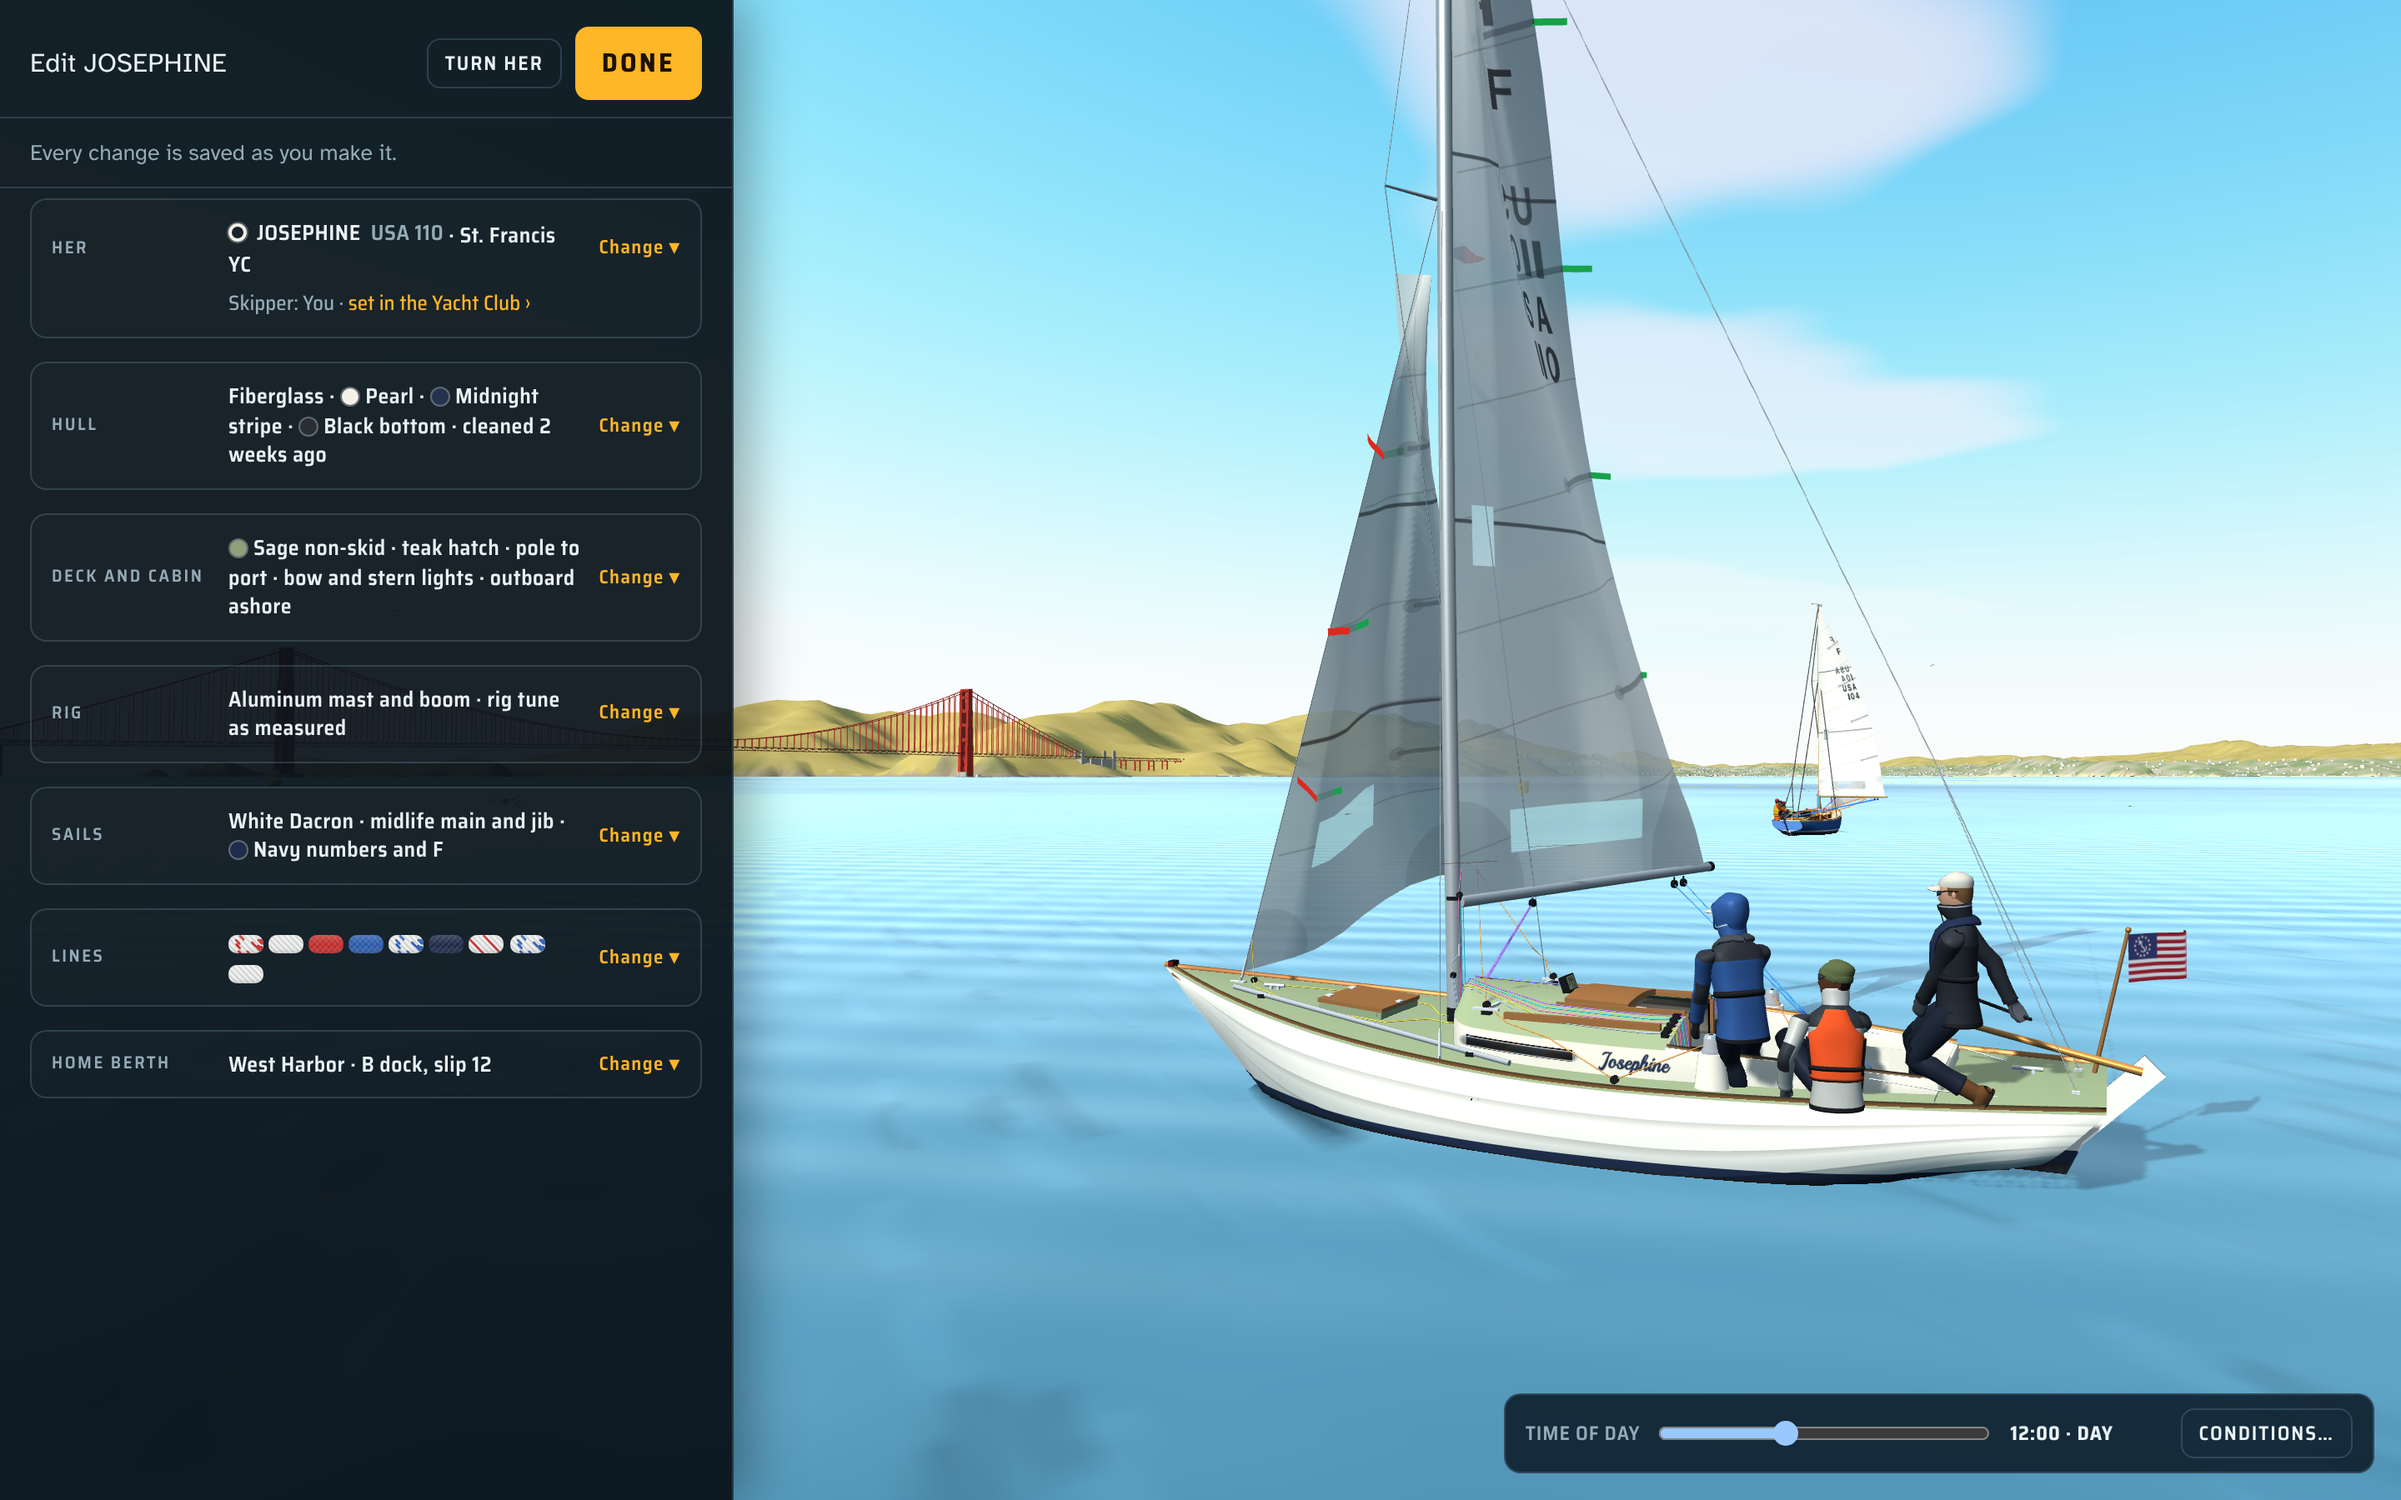
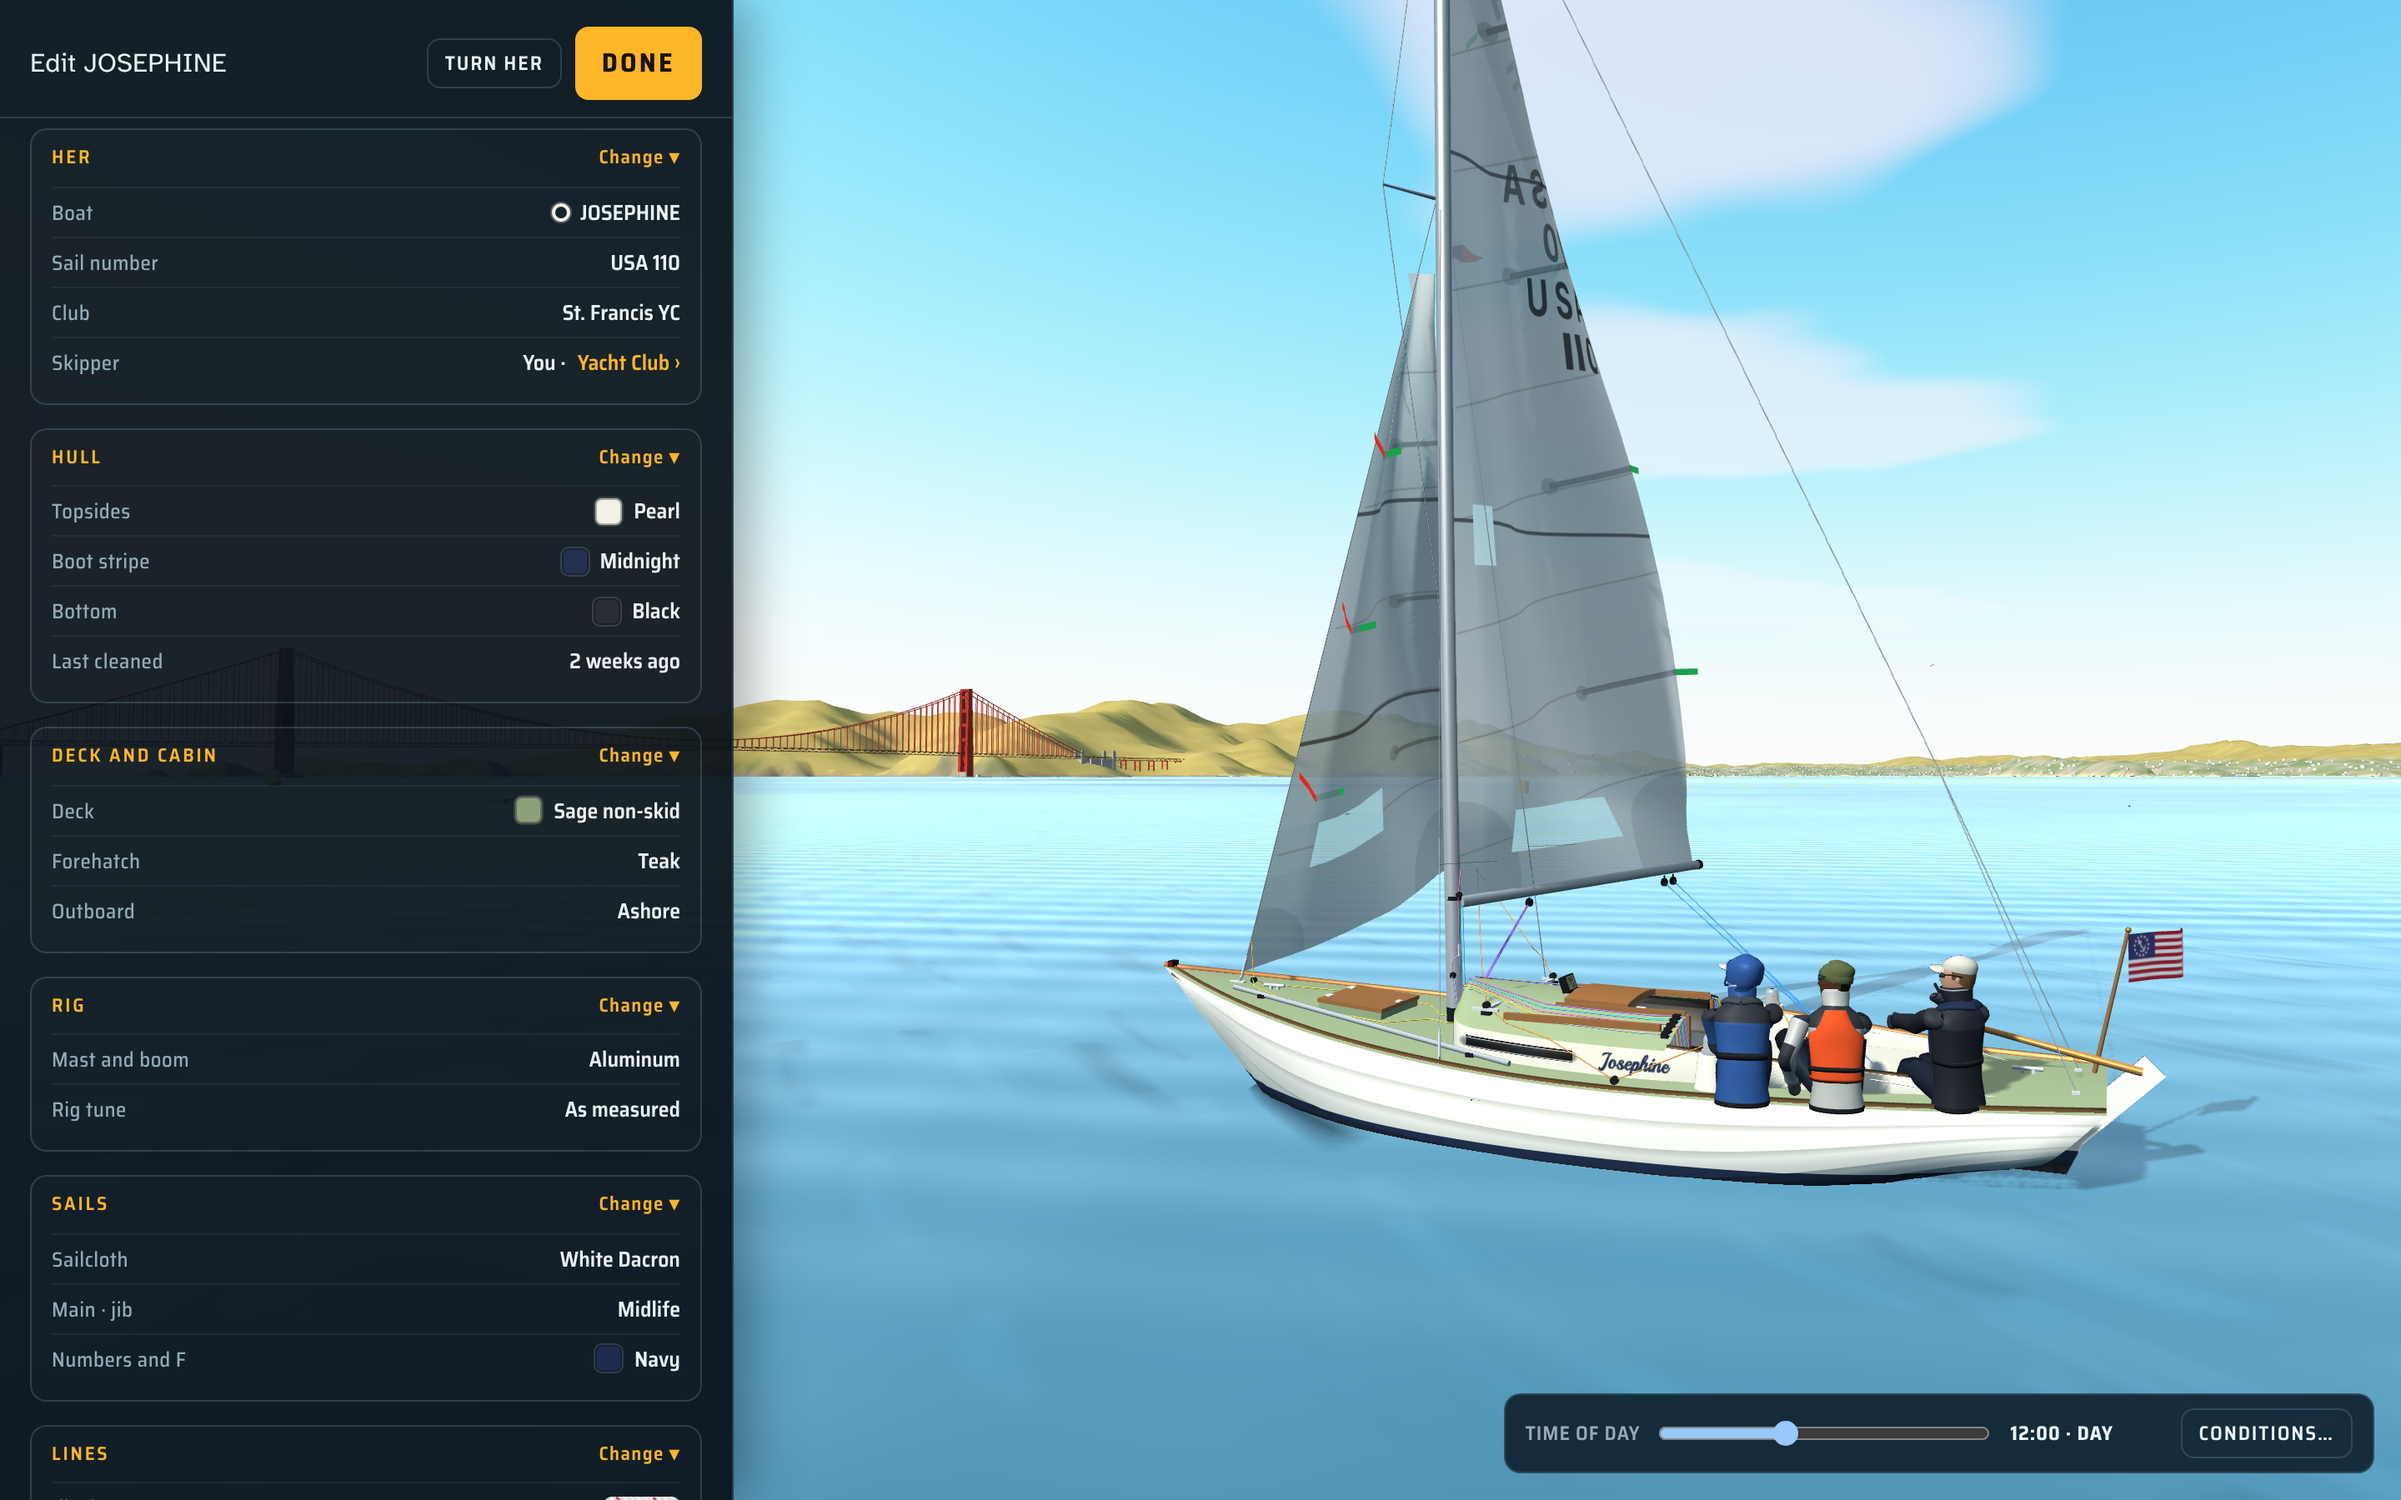
Boat editor mock-up: vertical lists (owner: tidy the cards), no saved-as-you-go line
Claude-Session: https://claude.ai/code/session_012Uu5QhY7i2pxWmAtAggWhz

diff --git a/design/boat-editor/mock.js b/design/boat-editor/mock.js
@@ -31,6 +31,19 @@ window.__mockEditor = (mode) => {
   .mk .ropes div{display:flex;align-items:center;gap:8px;font:500 12px var(--f-inst);color:var(--text)}.mk .ropes div.on{color:var(--accent)}.mk .ropes div.on .rope{outline:2px solid var(--accent);outline-offset:1px}
   .mk .src{font:500 11px/1.35 var(--f-inst);color:var(--muted)}
   .mk .seg button{font-size:12px}
+  .mk .fold>header{grid-template-columns:1fr auto !important}
+  .mk .fold>header b{font-size:11.5px !important;color:var(--accent) !important}
+  .mk .sum,.mk .in{padding:0 12px 10px;display:flex;flex-direction:column;gap:0}
+  .mk .kv{display:grid;grid-template-columns:132px 1fr;align-items:center;min-height:30px;border-top:1px solid rgba(150,196,218,.08)}
+  .mk .in .kv{min-height:40px}
+  .mk .kv>span:first-child{font:500 12.5px var(--f-inst);color:var(--muted);letter-spacing:.02em}
+  .mk .kv>*:last-child{justify-self:end}
+  .mk .v{display:inline-flex;align-items:center;gap:7px;font:600 13px var(--f-inst);color:var(--text)}.mk .v.mu{color:var(--muted);font-weight:500}.mk .v a{color:var(--accent);text-decoration:none}
+  .mk .sq{width:16px;height:16px;border-radius:4px;box-shadow:inset 0 0 0 1px rgba(0,0,0,.3),0 0 0 1px rgba(233,242,245,.15)}
+  .mk .kv .seg{width:210px}.mk .slide input{width:150px}.mk .slide em{font-style:normal;color:var(--muted);font-weight:500;width:34px}
+  .mk .num{width:56px}
+  .mk .cbtn{min-width:150px}
+  .mk .picker,.mk .ropes{margin:2px 0 8px}
   .mk .tile{display:inline-flex;align-items:center;gap:6px}.mk .tile i{width:11px;height:11px;border-radius:50%;border:2.5px solid;box-sizing:border-box;box-shadow:0 0 0 1px rgba(233,242,245,.28)}.mk .tile em{font-style:normal;color:var(--muted)}`;
   // a rope as drawn: its braid (the cover's crossing strands), and the colorway's fleck or tracer
   const rope = (base, kind, mark, w = 46, h = 14) => {
@@ -48,33 +61,32 @@ window.__mockEditor = (mode) => {
     ['Red fleck', '#eef0ee', 'fleck', '#c8312f'], ['Blue fleck', '#eef0ee', 'fleck', '#2f5fb3'], ['Green fleck', '#eef0ee', 'fleck', '#2f7a45'], ['Gold fleck', '#eef0ee', 'fleck', '#c99a2e'],
     ['White, red tracers', '#eef0ee', 'tracer', '#c8312f'], ['Navy, beige tracer', '#1f2a4a', 'tracer', '#cdb98f']];
   const R = n => { const r = ROPES.find(x => x[0] === n); return rope(r[1], r[2], r[3]); };
-  const fold = (label, summary, open = false, inner = '', ro = '') => `<div class="fold${open ? ' open' : ''}"><header><b>${label}</b><span>${summary}</span><i>${open ? 'Done ▴' : 'Change ▾'}</i></header>${ro}${open ? `<div class="in">${inner}</div>` : ''}</div>`;
-  const dot = c => `<i class="dot" style="background:${c}"></i>`;
-  const cbtn = (c, n, on = false) => `<button class="cbtn${on ? ' on' : ''}"><i style="background:${c}"></i>${n} <em>${c.toUpperCase()}</em></button>`;
-  const cf = (label, c, n, on) => `<div class="cfield"><span>${label}</span>${cbtn(c, n, on)}</div>`;
-  const CLASS = [['Pearl', '#f4f1e8'], ['Snow white', '#f7f7f4'], ['Cream', '#efe6cf'], ['Buff', '#d9c49a'], ['Navy', '#1f2c4f'], ['Flag blue', '#24407a'], ['Hunter green', '#2a4a33'], ['Racing green', '#1f5a3a'], ['Signal red', '#b3302a'], ['Black', '#1c1d20'], ['Light grey', '#c9ccd0']];
+  // one property per row: label left (muted), value or control right, on one grid
+  const sw = (c, n) => `<span class="v"><i class="sq" style="background:${c}"></i>${n}</span>`;
+  const row = (label, value) => `<div class="kv"><span>${label}</span>${value}</div>`;
+  const fold = (label, rows, open = false, inner = '') => `<div class="fold${open ? ' open' : ''}"><header><b>${label}</b><i>${open ? 'Done ▴' : 'Change ▾'}</i></header>${open ? `<div class="in">${inner}</div>` : `<div class="sum">${rows.join('')}</div>`}</div>`;
+  const cbtn = (c, n, on = false) => `<button class="cbtn${on ? ' on' : ''}"><i style="background:${c}"></i>${n}</button>`;
+  const CLASS = [['Pearl', '#f4f1e8'], ['Snow white', '#f7f7f4'], ['Cream', '#efe6cf'], ['Buff', '#d9c49a'], ['Navy', '#1f2c4f'], ['Flag blue', '#24407a'], ['Hunter green', '#2a4a33'], ['Racing green', '#1f5a3a'], ['Signal red', '#b3302a'], ['Black', '#1c1d20']];
   const picker = `<div class="picker"><div class="sv"></div><div class="hue"></div>
-    <div class="hexrow"><input class="pick" value="#F4F1E8" aria-label="Hex"><small>Pearl</small></div>
+    <div class="hexrow"><input class="pick" value="#F4F1E8" aria-label="Hex"></div>
     <div class="prow"><b>Folkboat colors</b>${CLASS.map(([n, c], i) => `<i class="ps${i === 0 ? ' on' : ''}" style="background:${c}" title="${n}"></i>`).join('')}</div>
-    <div class="prow"><b>Your colors · on every picker, saved with your account</b>${['#8e9f7c', '#24324f', '#a8802f'].map(c => `<i class="ps" style="background:${c}"></i>`).join('')}<i class="ps add" title="Save this color">+</i></div></div>`;
+    <div class="prow"><b>Your colors</b>${['#8e9f7c', '#24324f', '#a8802f'].map(c => `<i class="ps" style="background:${c}"></i>`).join('')}<i class="ps add" title="Save this color">+</i></div></div>`;
   const seg = (opts, cur) => `<div class="seg">${opts.map(o => `<button type="button" aria-pressed="${o === cur}">${o}</button>`).join('')}</div>`;
-  const field = (label, inner) => `<div class="field"><span>${label}</span>${inner}</div>`;
-  const hullIn = field('Hull', seg(['Fiberglass', 'Wood'], 'Fiberglass')) + cf('Topsides', '#f4f1e8', 'Pearl', true) + picker
-    + cf('Boot stripe', '#24324f', 'Midnight') + cf('Bottom paint', '#2a2d33', 'Black') + field('Bottom finish', seg(['As rolled on', 'Wet-sanded, burnished'], 'As rolled on'))
-    + field('Bottom last cleaned · <b>2 weeks ago</b>', '<input type="range" min="0" max="26" value="2">') + cf('Name lettering', '#1f2c4f', 'Navy')
-    + field('Weight over the class minimum', '<label class="inline"><input class="pick" value="0"> lb</label>');
+  const hullIn = row('Hull', seg(['Fiberglass', 'Wood'], 'Fiberglass')) + row('Topsides', cbtn('#f4f1e8', 'Pearl', true)) + picker
+    + row('Boot stripe', cbtn('#24324f', 'Midnight')) + row('Bottom paint', cbtn('#2a2d33', 'Black')) + row('Bottom finish', seg(['As rolled on', 'Burnished'], 'As rolled on'))
+    + row('Last cleaned', '<span class="v slide"><input type="range" min="0" max="26" value="2"><em>2 wk</em></span>') + row('Name lettering', cbtn('#1f2c4f', 'Navy'))
+    + row('Over the minimum', '<span class="v"><input class="pick num" value="0"> lb</span>');
   const LINES = [['Jib sheets', 'Red fleck'], ['Main halyard', 'White'], ['Jib Cunningham', 'Red'], ['Main Cunningham', 'Blue'], ['Outhaul', 'Blue fleck'], ['Vang', 'Navy'], ['Jib halyard', 'White, red tracers'], ['Mainsheet', 'Blue fleck'], ['Backstay', 'White']];
-  const linesIn = LINES.map(([n, r], i) => `<div class="lrow${i === 0 ? ' on' : ''}"><span>${n} <em>· ${r}</em></span>${R(r)}</div>${i === 0 ? `<div class="ropes">${ROPES.map(x => `<div class="${x[0] === r ? 'on' : ''}">${rope(x[1], x[2], x[3], 40, 13)}${x[0]}</div>`).join('')}</div>` : ''}`).join('')
-    + `<div class="src">Real rope colorways: New England Ropes (Sta-Set, Sta-Set X), Samson (XLS), Marlow (Doublebraid).</div>`;
-  const her = fold('Her', `<span class="tile"><i style="border-color:#f4f1e8"></i>JOSEPHINE <em>USA 110</em></span> · St. Francis YC`, false, '', `<div class="ro">Skipper: You · <a href="#">set in the Yacht Club ›</a></div>`);
-  const hull = fold('Hull', `Fiberglass · ${dot('#f4f1e8')}Pearl · ${dot('#24324f')}Midnight stripe · ${dot('#2a2d33')}Black bottom · cleaned 2 weeks ago`, mode === 'hull', hullIn);
-  const deck = fold('Deck and cabin', `${dot('#8e9f7c')}Sage non-skid · teak hatch · pole to port · bow and stern lights · outboard ashore`);
-  const rig = fold('Rig', 'Aluminum mast and boom · rig tune as measured');
-  const sails = fold('Sails', `White Dacron · midlife main and jib · ${dot('#1f2c4f')}Navy numbers and F`);
-  const lines = fold('Lines', LINES.map(([, r]) => R(r).replace('width="46" height="14"', 'width="21" height="11"').replace('viewBox="0 0 46 14"', 'viewBox="0 0 24 12"').replace('<svg','<svg preserveAspectRatio="none"')).join(' '), mode === 'lines', linesIn);
-  const berth = fold('Home berth', 'West Harbor · B dock, slip 12');
+  const ropeBtn = (r, on) => `<button class="cbtn${on ? ' on' : ''}">${R(r)}${r}</button>`;
+  const linesIn = LINES.map(([n, r], i) => row(n, ropeBtn(r, i === 0)) + (i === 0 ? `<div class="ropes">${ROPES.map(x => `<div class="${x[0] === r ? 'on' : ''}">${rope(x[1], x[2], x[3], 40, 13)}${x[0]}</div>`).join('')}</div>` : '')).join('');
+  const her = fold('Her', [row('Boat', `<span class="v"><span class="tile"><i style="border-color:#f4f1e8"></i>JOSEPHINE</span></span>`), row('Sail number', '<span class="v">USA 110</span>'), row('Club', '<span class="v">St. Francis YC</span>'), row('Skipper', '<span class="v">You · <a href="#">Yacht Club ›</a></span>')]);
+  const hull = fold('Hull', [row('Topsides', sw('#f4f1e8', 'Pearl')), row('Boot stripe', sw('#24324f', 'Midnight')), row('Bottom', sw('#2a2d33', 'Black')), row('Last cleaned', '<span class="v">2 weeks ago</span>')], mode === 'hull', hullIn);
+  const deck = fold('Deck and cabin', [row('Deck', sw('#8e9f7c', 'Sage non-skid')), row('Forehatch', '<span class="v">Teak</span>'), row('Outboard', '<span class="v">Ashore</span>')]);
+  const rig = fold('Rig', [row('Mast and boom', '<span class="v">Aluminum</span>'), row('Rig tune', '<span class="v">As measured</span>')]);
+  const sails = fold('Sails', [row('Sailcloth', '<span class="v">White Dacron</span>'), row('Main · jib', '<span class="v">Midlife</span>'), row('Numbers and F', sw('#1f2c4f', 'Navy'))]);
+  const lines = fold('Lines', [row('Jib sheets', `<span class="v">${R('Red fleck')}</span>`), row('Mainsheet', `<span class="v">${R('Blue fleck')}</span>`), row('Halyards', `<span class="v">${R('White')}</span>`), row('6 more', '<span class="v mu">Change to see</span>')], mode === 'lines', linesIn);
+  const berth = fold('Home berth', [row('Marina', '<span class="v">West Harbor</span>'), row('Slip', '<span class="v">B dock, slip 12</span>')]);
   el.innerHTML = `<style>${css}</style>${shade}<div class="bphead"><h2>Edit JOSEPHINE</h2><button type="button" class="ghost sm">Turn her</button><button type="button" class="cta">Done</button></div>
-    <div class="garage"><small>Every change is saved as you make it.</small></div>
     <div class="bpbody mk">${her}${hull}${deck}${rig}${sails}${lines}${berth}</div>`;
   if (mode !== 'folded') { const o = el.querySelector('.fold.open'), body = el.querySelector('.bpbody'); body.scrollTop += o.getBoundingClientRect().top - body.getBoundingClientRect().top - 8; }
 };

diff --git a/design/boat-editor/README.md b/design/boat-editor/README.md
@@ -2,9 +2,9 @@
 
 The real editor panel with `mock.js` injected (`node design/boat-editor/shoot.cjs design/boat-editor`, dev server on 5199):
 
-- `editor-folded.png`: every group folded to a one-line summary. The groups are Her, Hull, Deck and cabin, Rig, Sails,
+- `editor-folded.png`: every group folded to a short vertical list (label left, value right; at most four rows). The groups are Her, Hull, Deck and cabin, Rig, Sails,
   Lines, Home berth. The skipper is read-only under Her, with a link to the Yacht Club.
-- `editor-hull.png`: Hull open, with the one color picker on Topsides. It has a hue and shade field, a hex field, the
+- `editor-hull.png`: Hull open, one row per property on a single grid; the one color picker opens under Topsides. It has a hue and shade field, a hex field, the
   class's usual colors as presets, and your own saved colors, which every picker shares and your account keeps.
 - `editor-lines.png`: Lines open. Each line picks from real rope colorways, drawn as rope (braid, flecks, tracers), not
   from the free picker (the owner).
